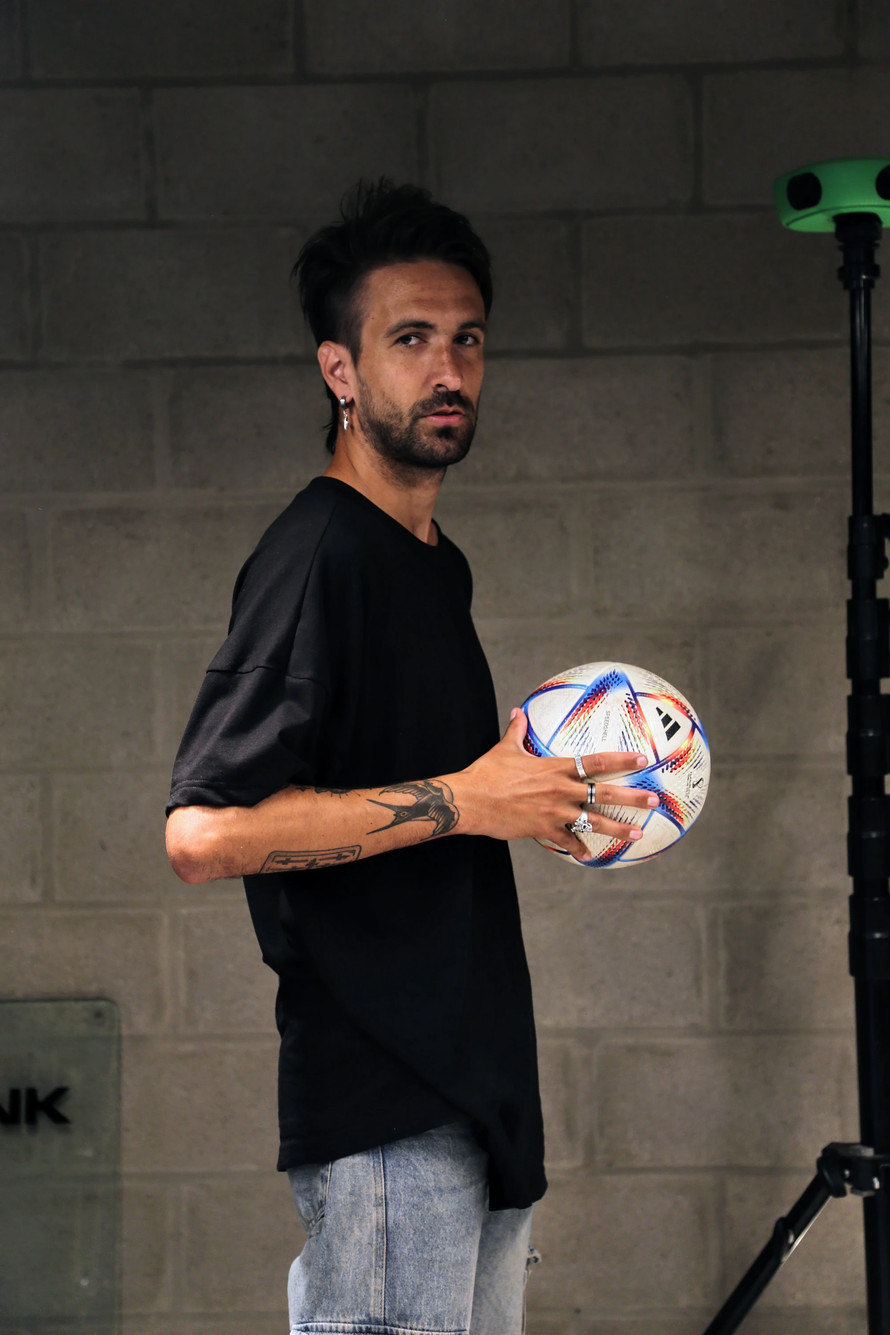
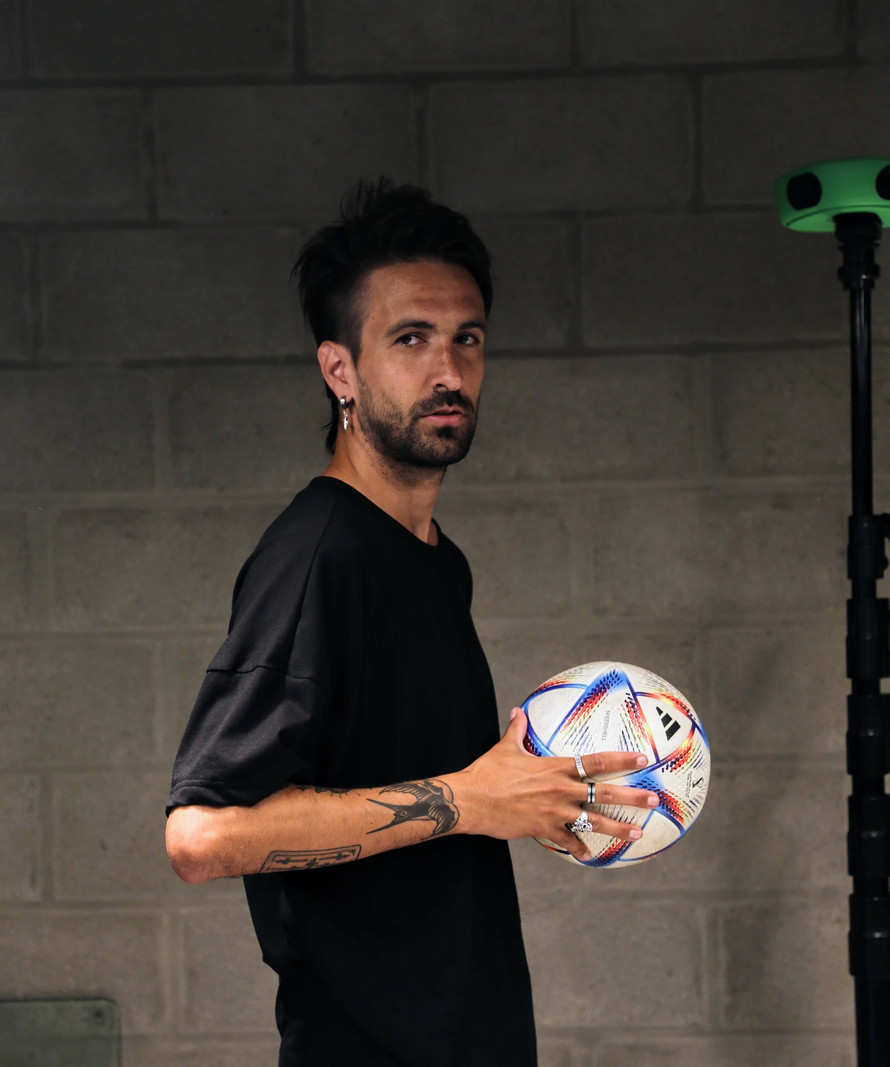
Carousel navbar e img

diff --git a/front/src/components/Navbar.js b/front/src/components/Navbar.js
@@ -241,53 +241,57 @@ const Navbar = () => {
                 </div>
               )}
             </div>
-            <div className="flex flex-row  justify-end items-center llg:mr-[20px] mg:mr-[80px] xl:mr-28">
+            <div className="flex flex-row cursor-pointer justify-end items-center llg:mr-[20px] mg:mr-[80px] xl:mr-28">
               <div
-                className={`relative lang-selector  select-none rounded-lg hidden  llg:flex mr-3 lg:mr-4 ${
-                  languageOpen ? "rounded-t-lg rounded-b-none" : "closed"
+                className={`transition-[1000] ${
+                  languageOpen ? "mt-[-30px]" : "mt-0"
                 }`}
+                onClick={toggleLanguage}
               >
-                <span
-                  className="text-white cursor-pointer flex flex-row items-center  ml-2"
-                  onClick={toggleLanguage}
+                <div
+                  className={`relative lang-selector  select-none rounded-lg hidden  llg:flex mr-3 lg:mr-4 ${
+                    languageOpen ? "rounded-t-lg rounded-b-none" : "closed"
+                  }`}
                 >
-                  {locale} {locale === "ES" ? "🇪🇸" : "🇬🇧"}
-                  <svg
-                    className={`ml-2 transition-all duration-300 ${
-                      languageOpen ? "rotate-180" : ""
-                    }`}
-                    width="10"
-                    height="5"
-                    viewBox="0 0 10 5"
-                    fill="none"
-                    xmlns="http://www.w3.org/2000/svg"
-                  >
-                    <path
-                      d="M5 4.5L0.669873 1.38009e-07L9.33013 8.95112e-07L5 4.5Z"
-                      fill="#D9D9D9"
-                    />
-                  </svg>
-                </span>
-                {languageOpen && (
-                  <div className="absolute top-full left-0 text-white lang-selector  select-none rounded-b-lg flex">
-                    {locale !== "ES" && (
-                      <span
-                        className="cursor-pointer block ml-2"
-                        onClick={() => changeLanguage("ES")}
-                      >
-                        ES 🇪🇸
-                      </span>
-                    )}
-                    {locale !== "EN" && (
-                      <span
-                        className="cursor-pointer block ml-2"
-                        onClick={() => changeLanguage("EN")}
-                      >
-                        EN 🇬🇧
-                      </span>
-                    )}
-                  </div>
-                )}
+                  <span className="text-white cursor-pointer flex flex-row items-center  ml-2">
+                    {locale} {locale === "ES" ? "🇪🇸" : "🇬🇧"}
+                    <svg
+                      className={`ml-2 transition-all duration-300 absolute right-[10px] ${
+                        languageOpen ? "rotate-180 bottom-[0px]" : ""
+                      }`}
+                      width="10"
+                      height="5"
+                      viewBox="0 0 10 5"
+                      fill="none"
+                      xmlns="http://www.w3.org/2000/svg"
+                    >
+                      <path
+                        d="M5 4.5L0.669873 1.38009e-07L9.33013 8.95112e-07L5 4.5Z"
+                        fill="#D9D9D9"
+                      />
+                    </svg>
+                  </span>
+                  {languageOpen && (
+                    <div className="absolute top-full left-0 text-white lang-selector  select-none rounded-b-lg flex">
+                      {locale !== "ES" && (
+                        <span
+                          className="cursor-pointer block ml-2"
+                          onClick={() => changeLanguage("ES")}
+                        >
+                          ES 🇪🇸
+                        </span>
+                      )}
+                      {locale !== "EN" && (
+                        <span
+                          className="cursor-pointer block ml-2"
+                          onClick={() => changeLanguage("EN")}
+                        >
+                          EN 🇬🇧
+                        </span>
+                      )}
+                    </div>
+                  )}
+                </div>
               </div>
               <div className="hidden llg:block">
                 <Button

diff --git a/front/src/components/nosotros/OurCarousel.jsx b/front/src/components/nosotros/OurCarousel.jsx
@@ -1,0 +1,61 @@
+import React from "react";
+import Pablo from "../../assets/nosotros/pablo-img.webp";
+import Pato from "../../assets/nosotros/pato-img.webp";
+import Peter from "../../assets/nosotros/peter-img.webp";
+import Ro from "../../assets/nosotros/ro-img.webp";
+import Juan from "../../assets/nosotros/juan-img.webp";
+const OurCarousel = () => {
+  const items = [
+    {
+      name: "Pablo Matera",
+      position: "Brand Ambassador",
+      img: Pablo,
+    },
+    {
+      name: "Rodrigo Etchart",
+      position: "co founder",
+      img: Ro,
+    },
+    {
+      name: "Pedro Martinez",
+      position: "co founder",
+      img: Peter,
+    },
+    {
+      name: "Patricio Rolon",
+      position: "co founder",
+      img: Pato,
+    },
+    {
+      name: "jUAN REY",
+      position: "co founder",
+      img: Juan,
+    },
+  ];
+  // display: flex
+  // ;
+  //     flex-wrap: wrap;
+  //     max-width: 960px;
+  //     gap: 20px;
+  //     justify-content: center;
+  return (
+    <>
+      <div>
+        <div className="flex flex-wrap justify-center max-w-[960px] gap-5 m-auto pt-40">
+          {items?.map((item) => (
+            <div key={item.name} className="w-[305px] h-[405px] mt-16">
+              <img
+                src={item.img}
+                className="w-full h-[305px] rounded-lg object-cover"
+              />
+              <p className="subH2 text-grey4 mt-10 mb-1">{item.position}</p>
+              <h4 className="subH">{item.name}</h4>
+            </div>
+          ))}
+        </div>
+      </div>
+    </>
+  );
+};
+
+export default OurCarousel;
